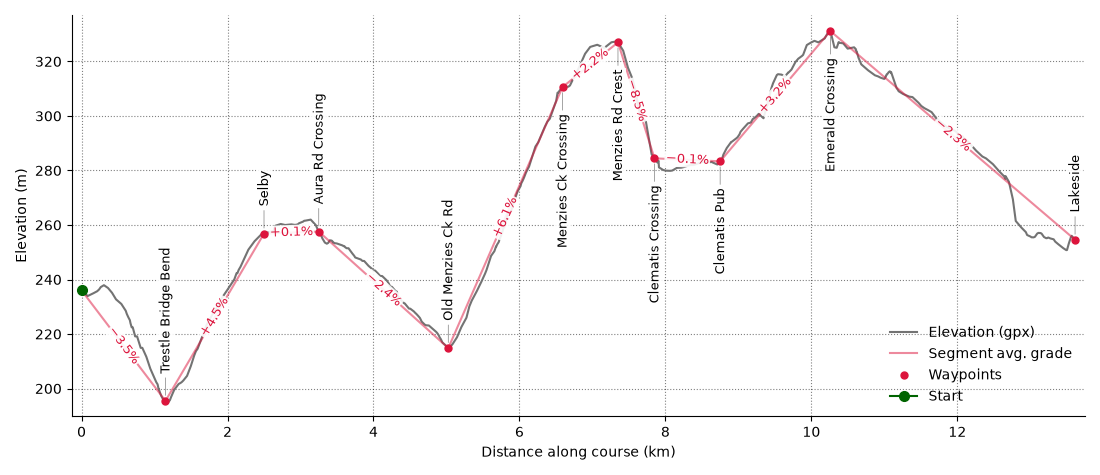
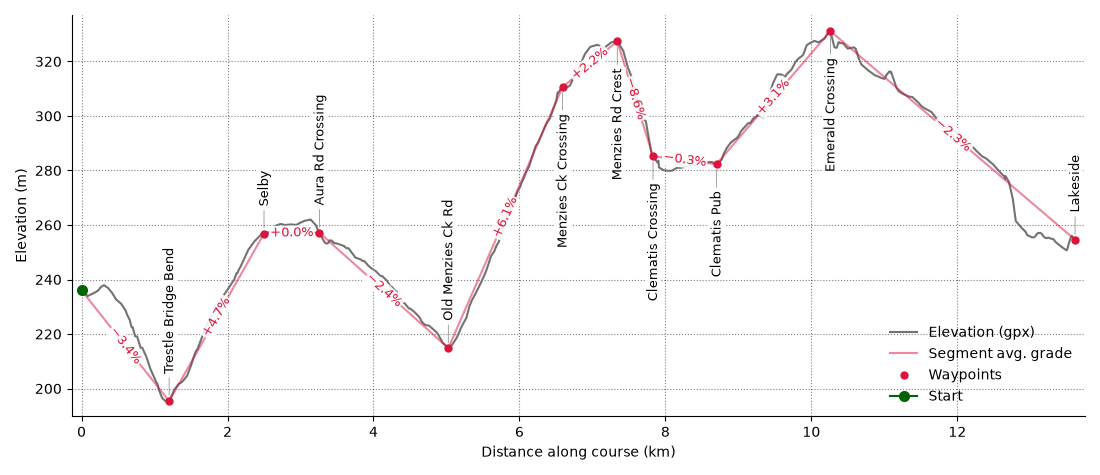
Tweak waypoints and add descriptions of them

diff --git a/README.md b/README.md
@@ -72,6 +72,27 @@ correctly ahead of time.
   `perf_ratio_scale`, 500 m by default, i.e. based on your performance over the last
   0.5–1 km or so)
 
+Waypoint description
+--------------------
+
+![course gates](course_gates.png)
+
+![course elevation](course_elevation.png)
+
+The default waypoints are:
+
+| distance into course   | name    | description                                                                          |
+| :--------- | :------------------ | :----------------------------------------------------------------------------------- |
+|  1.200 km  | Trestle Bridge Bend | Bend after which the Trestle Bridge comes into view                                  |
+|  2.500 km  | Selby               | Selby township                                                                       |
+|  3.260 km  | Aura Rd Crossing    | Where the railway crosses the course on Selby-Aura Rd                                |
+|  5.025 km  | Old Menzies Ck Rd   | Corner at Old Menzies Ck Rd where the course turns to stay on Selby-Aura Rd          |
+|  6.590 km  | Menzies Ck Crossing | Where the railway crosses the course in Menzies Ck township                          |
+|  7.340 km  | Menzies Rd Crest    | Local elevation maximum of the course on Menzies Rd                                  |
+|  7.830 km  | Clematis Crossing   | Where the railway and course both cross Belgrave-Gembrook Rd in parallel in Clematis |
+|  8.700 km  | Clematis Pub        | About 100 metres after the course passes Clematis Pub                                |
+| 10.260 km  | Emerald Crossing    | Where the railway crosses the course after Emerald Railway Station                   |
+| 13.613 km  | Lakeside            | Finish line at Emerald Lake                                                          |
 
 Configuration
 -------------
@@ -95,12 +116,8 @@ calculated from the per-segment paces. You can run `make_segments.py` to see the
 per-segment paces and implied total time.
 
 The official course `.gpx` for 2026 is in this repo as `official-course-2026.gpx`, and
-is used to extract segment grades. The default segmentation results in the below
-segments:
-
-![course elevation](course_elevation.png)
-
-![course gates](course_gates.png)
+is used to extract segment grades. The default segmentation results in the grades shown
+in the course elevation plot above.
 
 If you change the waypoints, you will want to verify that the waypoint gates (red line
 segments in the image above) don't intersect the course at any point earlier than the
